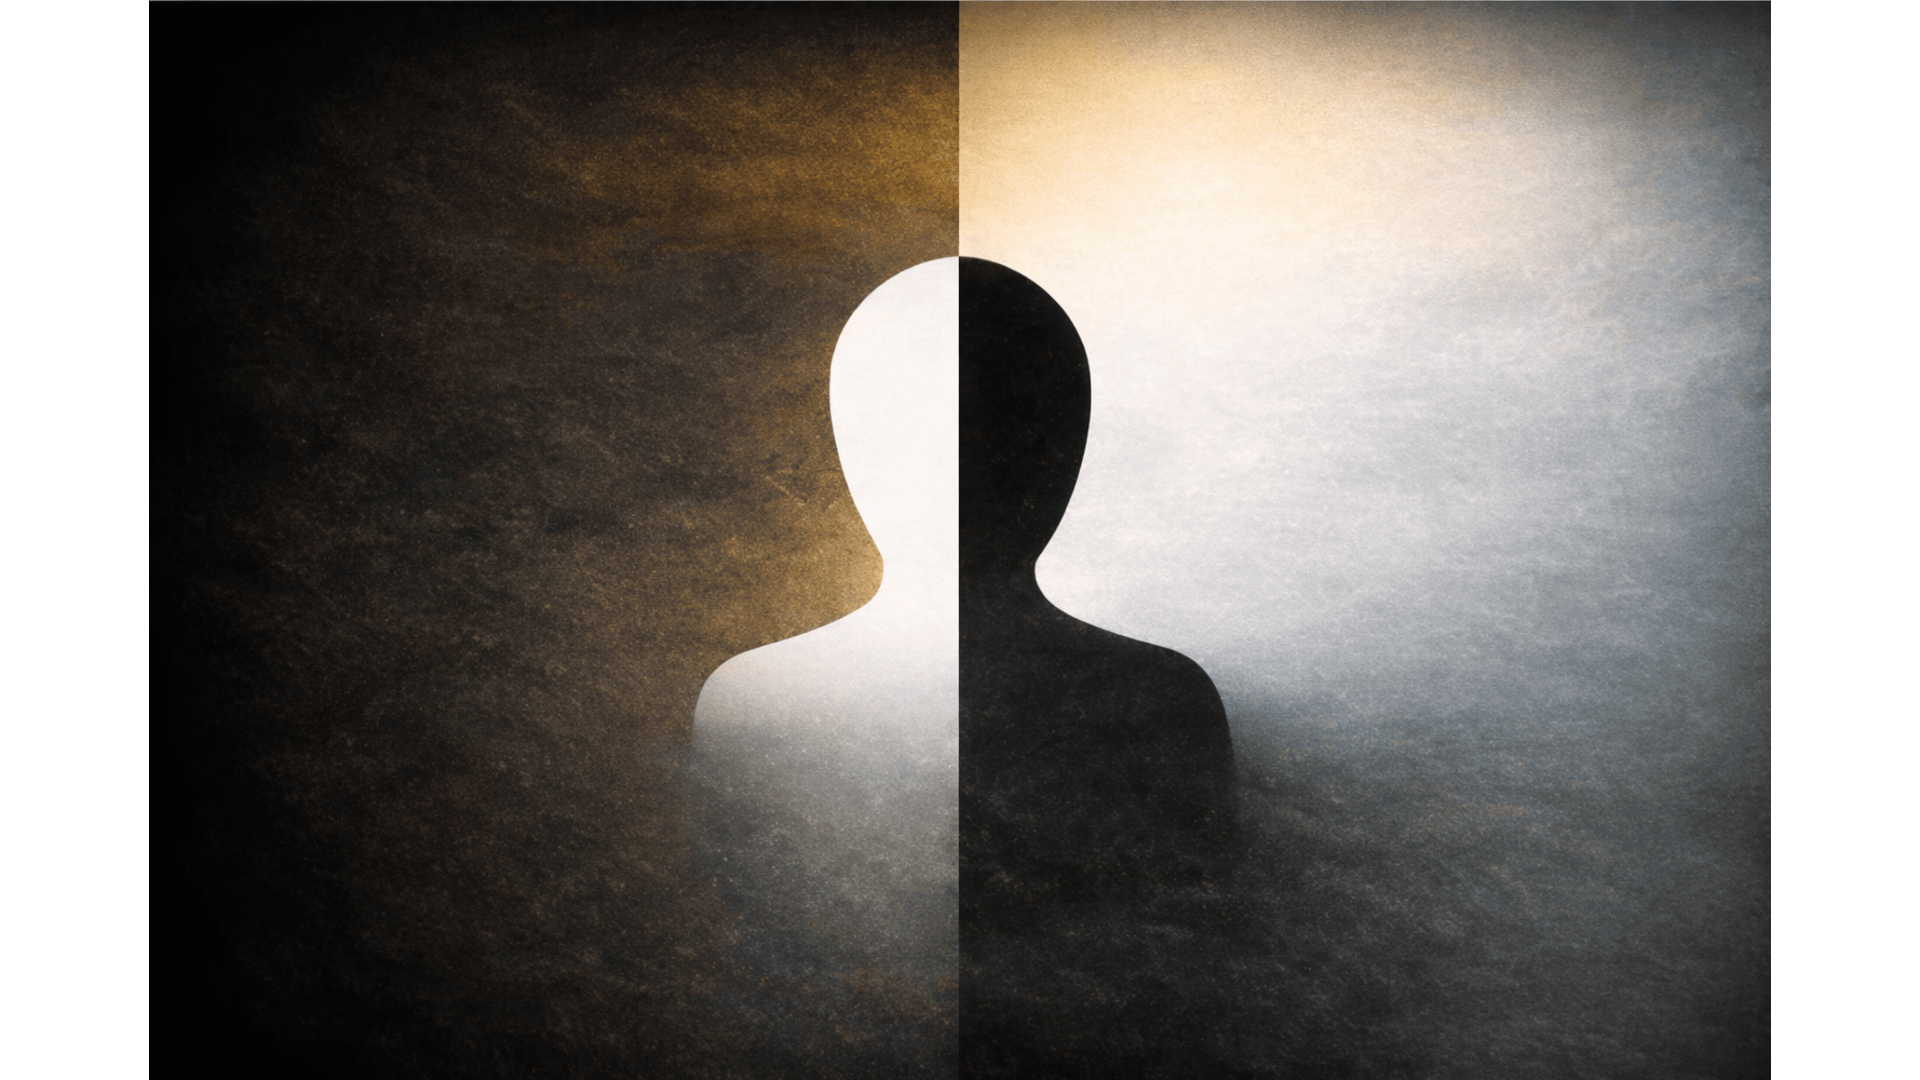
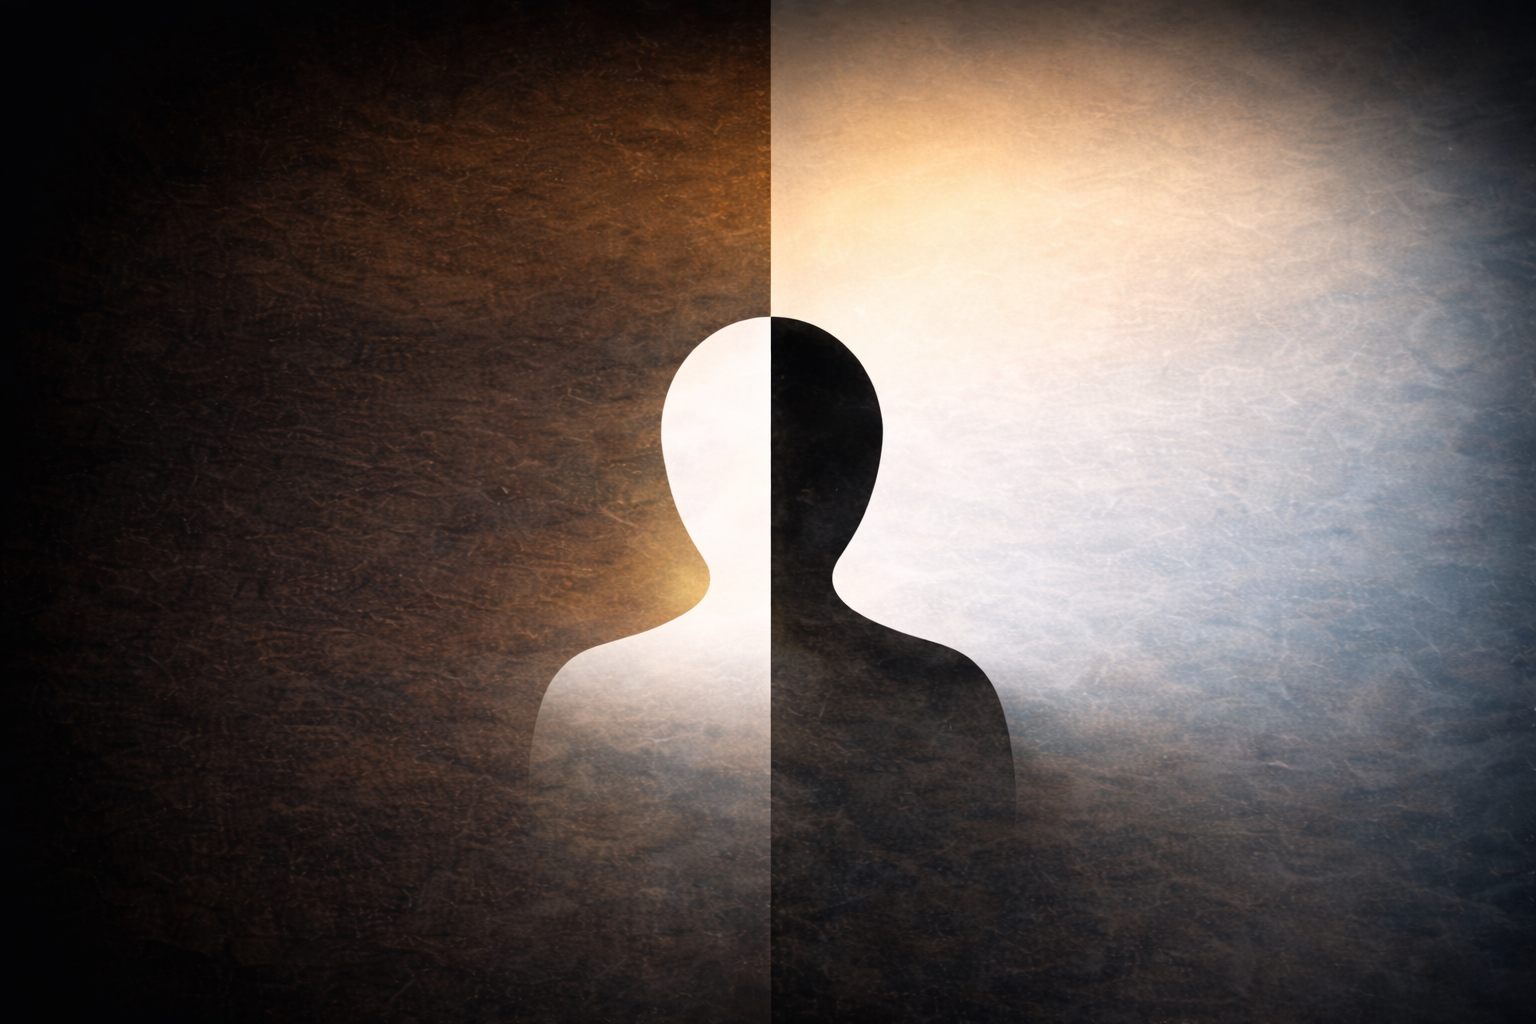
more changes

diff --git a/src/index.html b/src/index.html
@@ -16,7 +16,8 @@ eleventyNavigation:
 <!-- ============================================ -->
 
 <section id="hero">
-  <img src="/images/beyonder_gate_no_text_no_border.png" alt="Hero background" class="cs-picture" />
+  {% image './src/images/beyonder_gate_no_text_no_border.png', 'Hero background', 'cs-picture', 'eager',
+  '(max-width: 600px) 600px, (max-width: 1024px) 1024px, 1920px'%}
   <div class="cs-overlay"></div>
   <div class="cs-container">
     <h1 class="cs-title">
@@ -31,7 +32,7 @@ eleventyNavigation:
     <p class="cs-text cs-text-right">
       The difference between an average man and the Beyonder is <em>experience</em>.
     </p>
-    <a href="/contact/" class="cs-button-solid">Enter the Way</a>
+    <a href="https://www.facebook.com/DynamicLifeWayCoaching" target="_blank" rel="noopener" class="cs-button-solid">Enter the Way</a>
   </div>
 </div>
 </section>
@@ -79,8 +80,8 @@ eleventyNavigation:
 
 <section id="sbs">
   <div class="cs-container">
-    <div class="cs-left">
-      {% image './src/images/about_img_0.png', 'life coaching session', 'cs-picture cs-picture1', 'lazy'%}
+    <div class="cs-left founder-photo">
+      {% image './src/images/mazin_gorgees_founder.png', 'Mazin Gorgees - Founder and Life Coach', 'cs-picture cs-picture1', 'lazy'%}
     </div>
     <div class="cs-right">
       <span class="cs-topper">About Us</span>
@@ -505,8 +506,8 @@ body.dark-mode .orientation-icon-item {
 
 <section id="sbs">
   <div class="cs-container">
-    <div class="cs-left">
-      {% image './src/images/about_img_0.png', 'The Beyonder - Spiritual Philosopher and Coach', 'cs-picture cs-picture1', 'lazy'%}
+    <div class="cs-left founder-photo">
+      {% image './src/images/mazin_gorgees_founder.png', 'Mazin Gorgees - The Beyonder - Spiritual Philosopher and Coach', 'cs-picture cs-picture1', 'lazy'%}
     </div>
     <div class="cs-right">
       <span class="cs-topper">Who Stands at the Gate</span>
@@ -606,6 +607,46 @@ body.dark-mode .orientation-icon-item {
   {% image './src/images/final_home_img.png', 'life coaching session', '', 'lazy',
   '(max-width: 400px) 400px, (max-width: 850px) 850px, 1920px'%}
 </section>
+
+<style>
+/* Founder Photo Background Styling */
+.founder-photo {
+  position: relative;
+}
+
+.founder-photo::before {
+  content: '';
+  position: absolute;
+  inset: 0;
+  background: 
+    linear-gradient(135deg, #f8f9fa 0%, #e9ecef 50%, #f8f9fa 100%),
+    repeating-linear-gradient(45deg, transparent, transparent 10px, rgba(0,0,0,.02) 10px, rgba(0,0,0,.02) 20px);
+  border-radius: 1.5em;
+  z-index: 0;
+}
+
+.founder-photo .cs-picture {
+  position: relative;
+  z-index: 1;
+}
+
+.founder-photo .cs-picture img {
+  mix-blend-mode: multiply;
+  filter: contrast(1.05) brightness(1.02);
+}
+
+/* Dark Mode Founder Photo Background */
+body.dark-mode .founder-photo::before {
+  background: 
+    linear-gradient(135deg, #2c394b 0%, #1e2a38 50%, #2c394b 100%),
+    repeating-linear-gradient(45deg, transparent, transparent 10px, rgba(255,255,255,.03) 10px, rgba(255,255,255,.03) 20px);
+}
+
+body.dark-mode .founder-photo .cs-picture img {
+  mix-blend-mode: normal;
+  filter: contrast(1.05) brightness(1.05);
+}
+</style>
 
 <script src="https://identity.netlify.com/v1/netlify-identity-widget.js"></script>
 <script>

diff --git a/src/pages/contact.html b/src/pages/contact.html
@@ -75,7 +75,7 @@ eleventyNavigation:
           </picture>
           <div class="cs-flex-group">
             <span class="cs-header">Email</span>
-            <a href="mailto:hello@beyondersgate.com" class="cs-link">hello@beyondersgate.com</a>
+            <a href="mailto:mazin@dynamiclifeway.com" class="cs-link">mazin@dynamiclifeway.com</a>
           </div>
         </li>
         <li class="cs-li">
@@ -89,13 +89,6 @@ eleventyNavigation:
           </div>
         </li>
       </ul>
-      <!-- Picture -->
-      <picture class="cs-picture">
-        <source media="(max-width: 600px)" srcset="/images/map.png" />
-        <source media="(min-width: 601px)" srcset="/images/map.png" />
-        <img class="cs-img" aria-hidden="true" loading="lazy" decoding="async" src="/images/map.PNG"
-          alt="Map showing The Beyonders Gate coaching availability" width="462" height="438" />
-      </picture>
     </div>
   </div>
 </section>

diff --git a/src/css/critical.css b/src/css/critical.css
@@ -47,12 +47,17 @@
     height: 100%;
     display: block;
     position: absolute;
-    top: 0;
-    left: 0;
+    inset: 0;
     z-index: 1;
+    overflow: hidden;
+    pointer-events: none;
+  }
+  #hero .cs-picture img {
+    width: 100%;
+    height: 100%;
+    display: block;
     object-fit: cover;
     object-position: center;
-    pointer-events: none;
   }
   #hero .cs-overlay {
     /* Remove the overlay - we don't need it */
@@ -266,6 +271,12 @@
   }
   #hero .cs-button-solid {
     margin-bottom: 0;
+  }
+}
+/* Laptop - 1024px */
+@media only screen and (min-width: 64em) {
+  #hero .cs-picture img {
+    object-position: center 58%;
   }
 }
 /* Desktop - 1300px */
